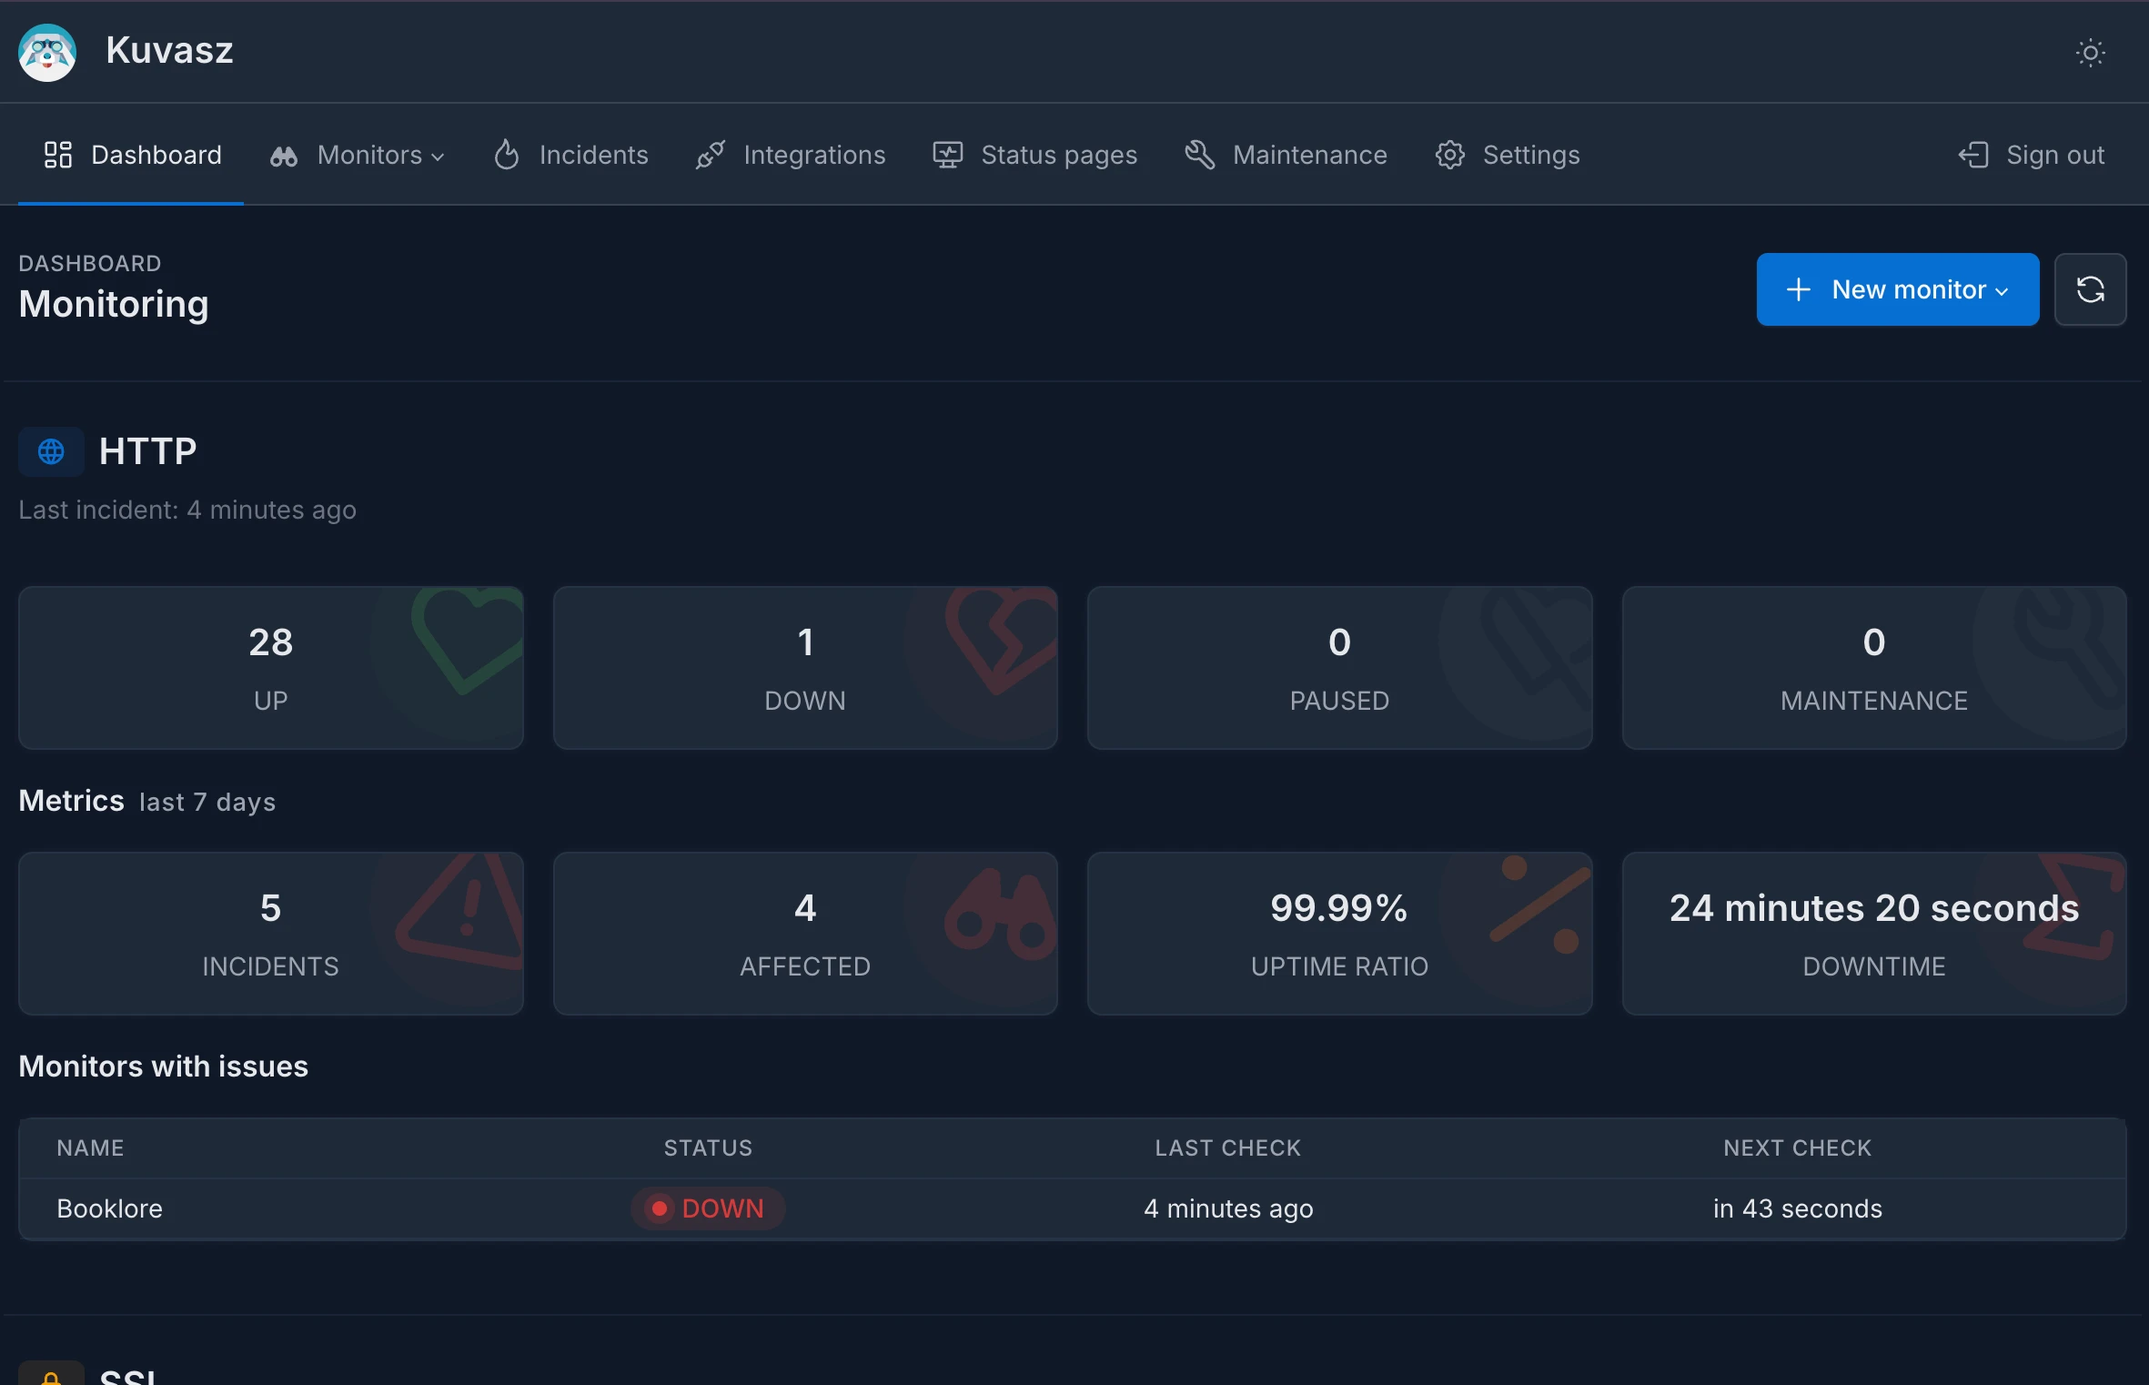
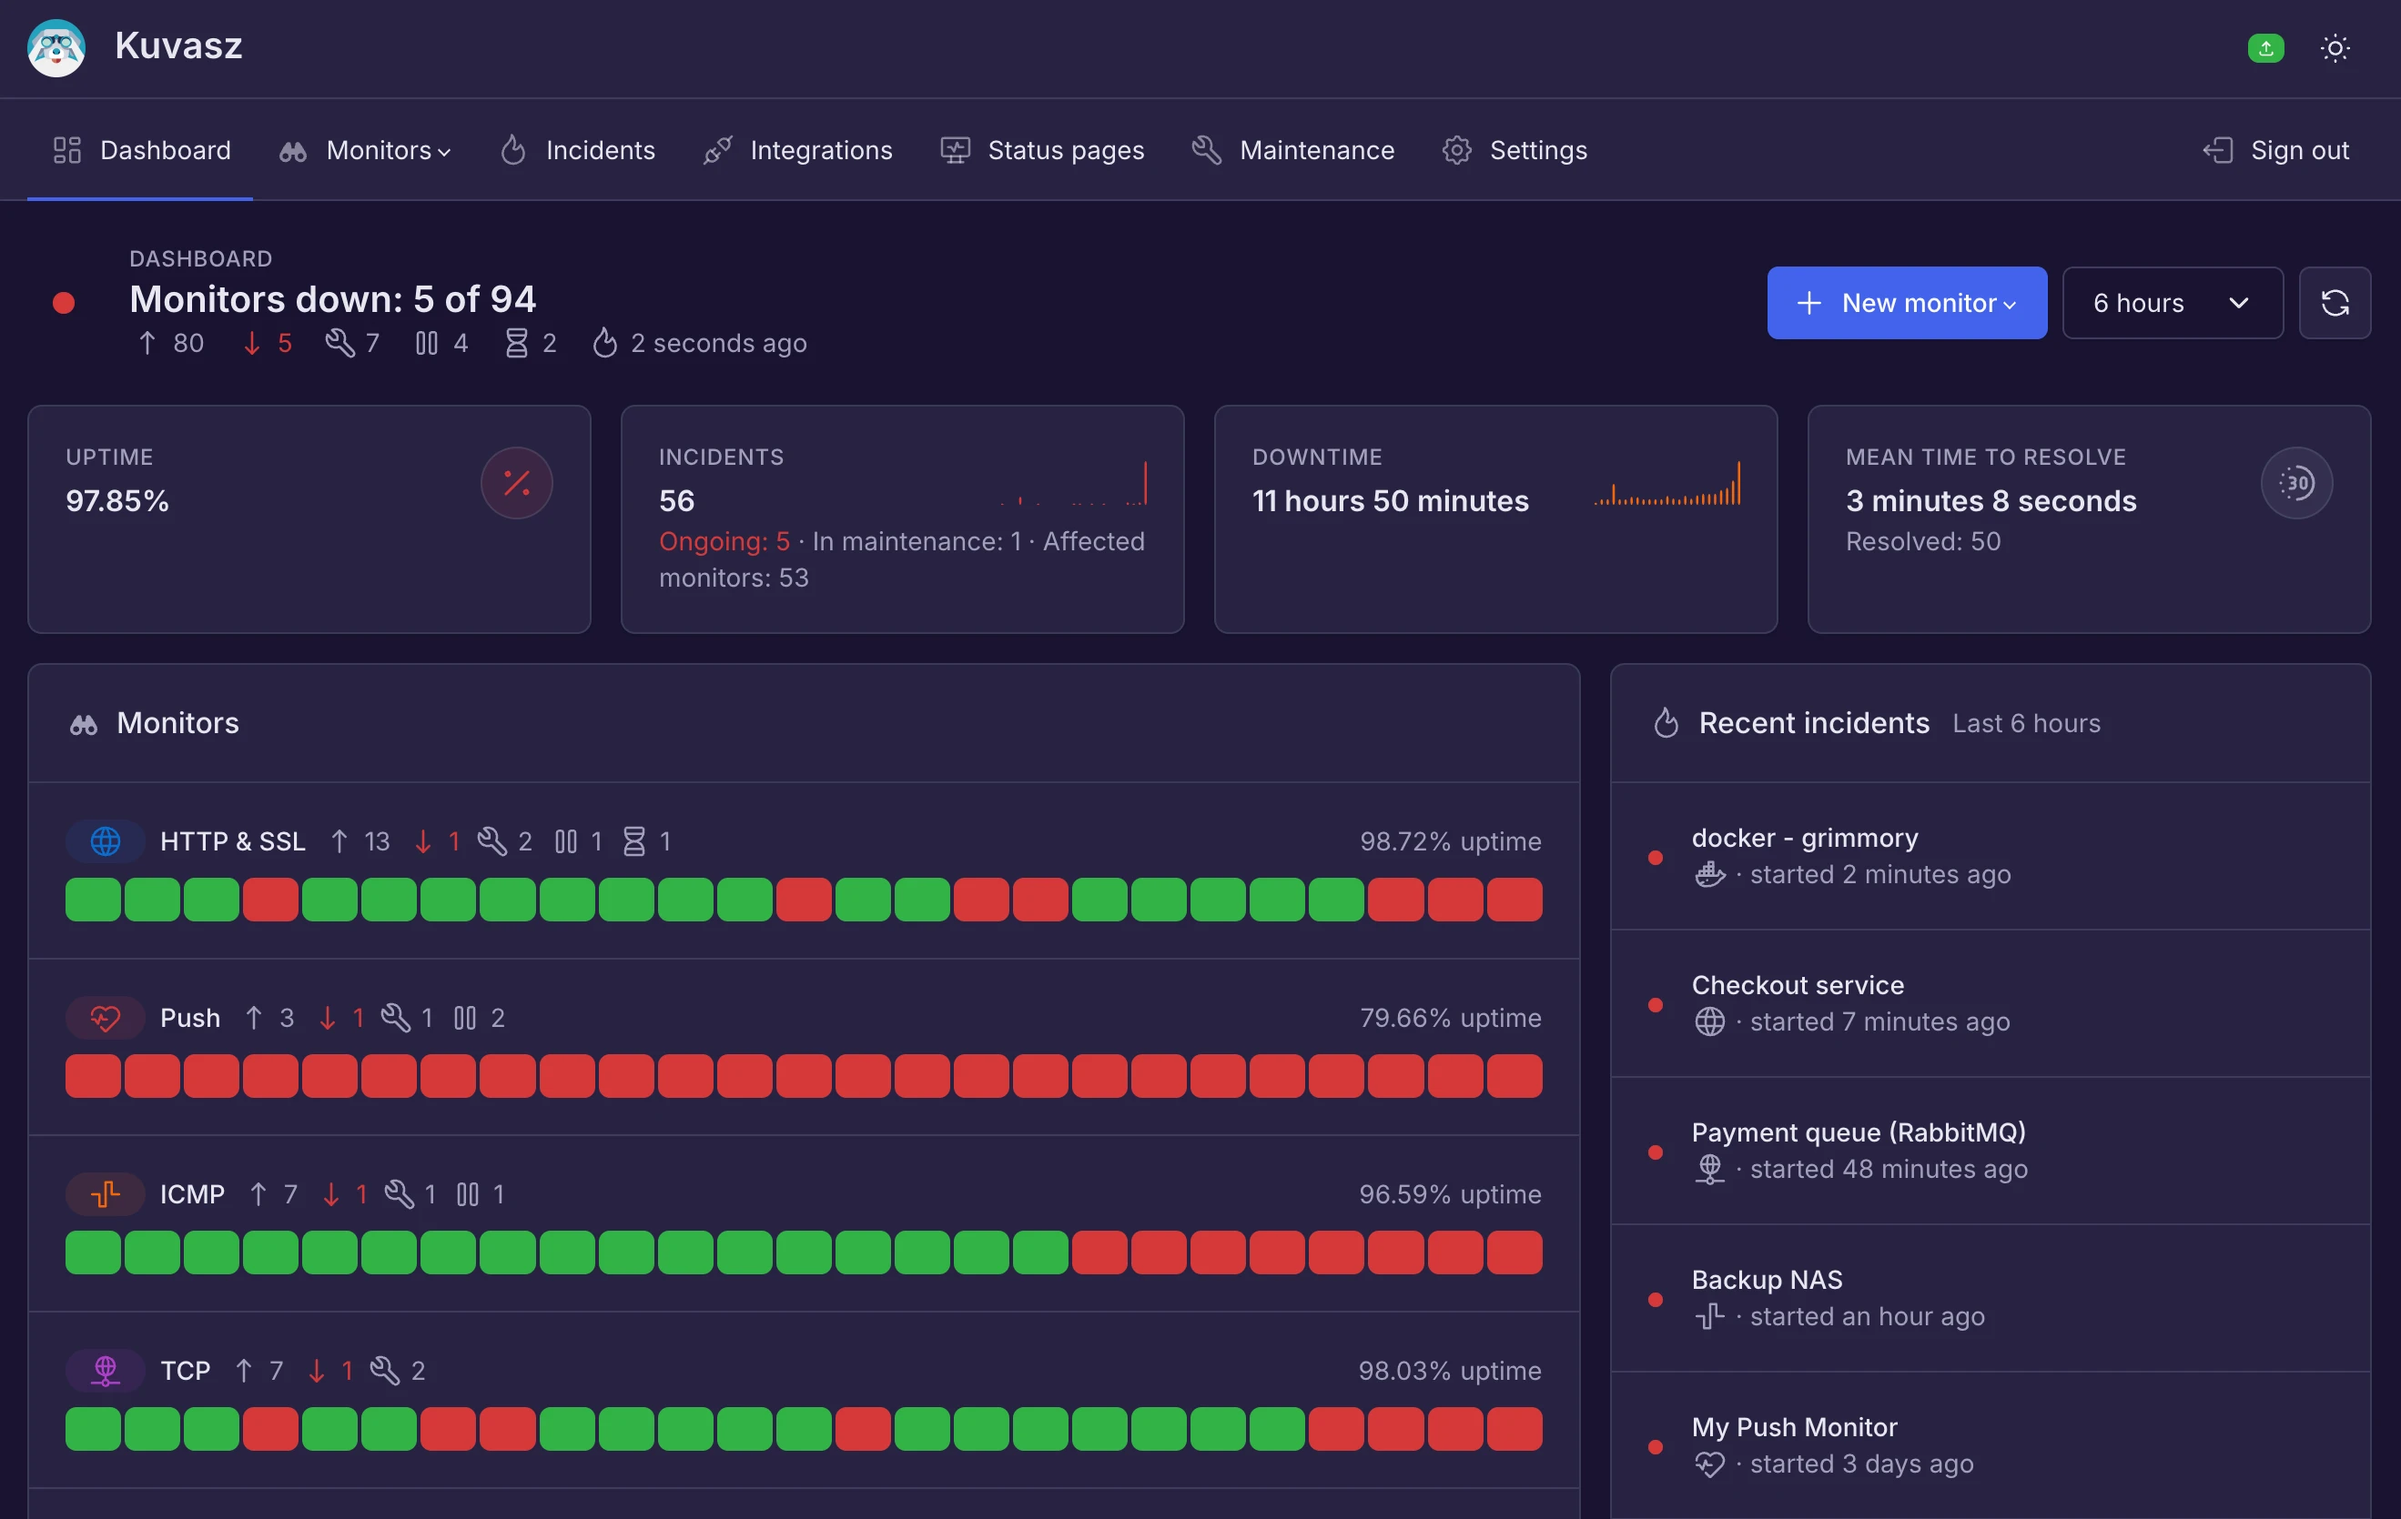
docs: update the dashboard screenshot

diff --git a/docs/docs/changelog.md b/docs/docs/changelog.md
@@ -14,6 +14,8 @@ Docker monitors are fully integrated across _Kuvasz_: they're manageable via the
 
 **🖥 A fully redesigned dashboard** 
 
+![New dashboard](images/ui/dashboard.webp)
+
 Instead of repeating the same set of stat cards for every monitor type in a boring way, the brand new dashboard gives you a single overview of **all of your monitors** now: a **verdict** in the header about what needs your attention, the key figures (**uptime**, **incidents**, **downtime** and **mean time to resolve**), an **uptime timeline** per monitor type, the **recent incidents** (both ongoing and resolved), the **certificates** that need your attention, the **active and upcoming maintenance windows**, and the **least reliable monitors** of the period. The period it covers can be picked with a **period selector** (from the last hour up to the last 30 days).
 
 ---

diff --git a/README.md b/README.md
@@ -10,7 +10,7 @@
 
 **Kuvasz** [ˈkuvɒs] is an open-source, self-hosted uptime & SSL monitoring service with [**status pages**](https://demo.kuvasz-uptime.dev/status), designed to help you keep track of your websites and services. It provides a modern, user-friendly interface, a powerful REST API + MCP server, maintenance windows and supports multiple notification channels like email, Discord, Slack, Telegram, Microsoft Teams, Apprise, Pushover, PagerDuty and custom webhooks.
 
-![Kuvasz](docs/docs/images/feature_carousel.webp)
+![Kuvasz](docs/docs/images/ui/dashboard.webp)
 
 ## [📖 Documentation](https://kuvasz-uptime.dev)
 

diff --git a/docs/docs/index.md b/docs/docs/index.md
@@ -16,7 +16,7 @@ title: The developer- and cloud-friendly uptime monitor
 
     Are you looking for the **deployment guide**? You can find it [**here**](setup/installation.md)!
 
-![Kuvasz](images/feature_carousel.webp)
+![Kuvasz](images/ui/dashboard.webp)
 
 ## Highlights
 
